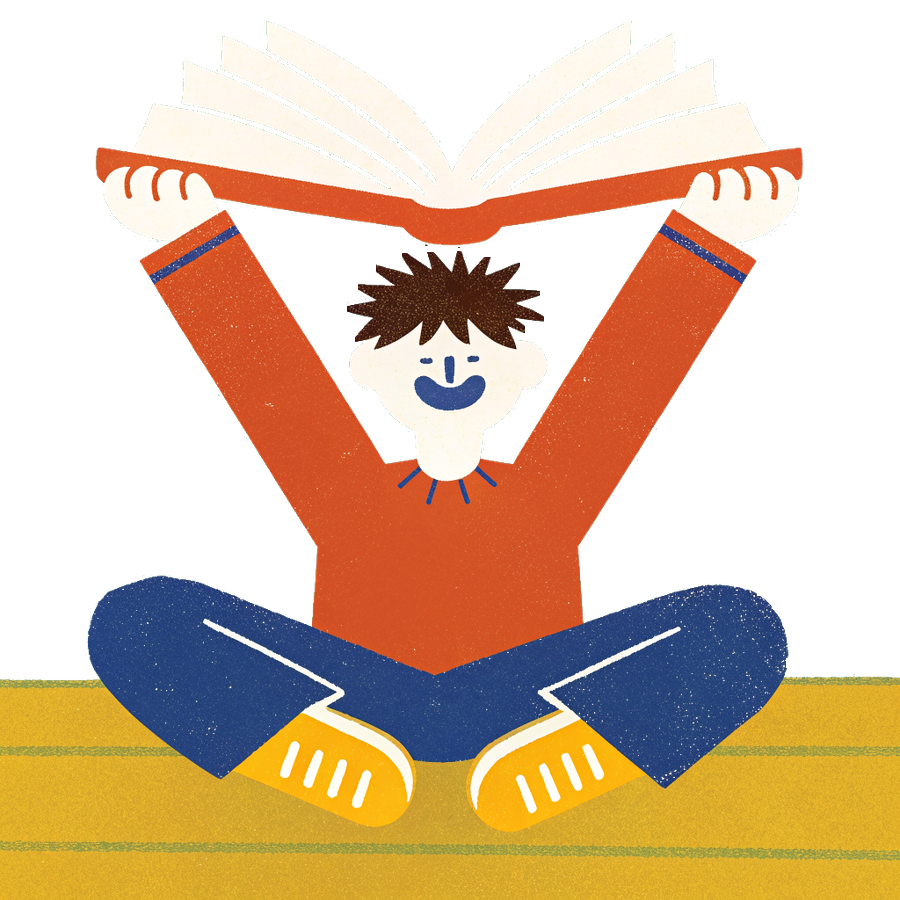
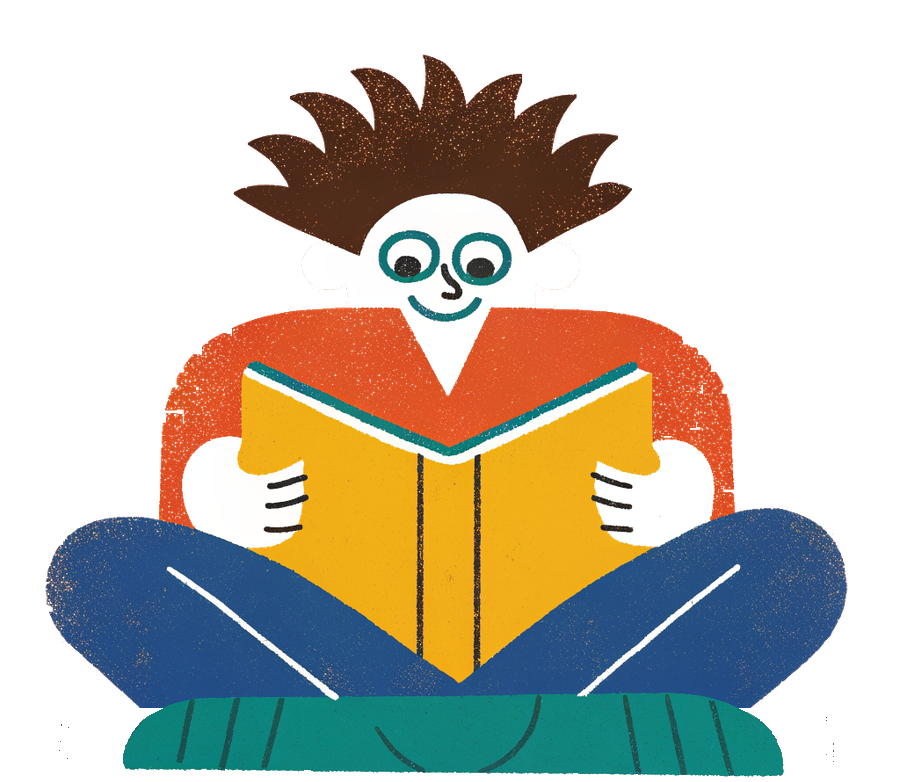
Captures App Store, showcase : l'« apres » lit vraiment, meme sol
Le garcon de droite lit un livre ouvert devant lui ; les deux sont assis
sur le meme sol vert en bas de la page 1.

Claude-Session: https://claude.ai/code/session_01Yb4eBsmKHAU4mkJzSv6usd

diff --git a/appstore/screenshots/src/pano.js b/appstore/screenshots/src/pano.js
@@ -201,9 +201,10 @@ const PANOS = {
       screen: s, cx: mid(i), cy: 232 + (956 * 0.78 + 21) / 2, s: 0.78,
       frame: i === 1 ? "#cdd9f5" : "#2e62c4", band: i === 1 ? "#e9effb" : "#dbe5f8" })),
     people: [
-      // opening panel: logo, bubble, and the before / after boy sitting on the bottom edge
+      // opening panel: logo, bubble, and the before / after boy sitting on the bottom edge, both on
+      // the same green floor (the band in `extras`, the colour of the "before" drawing's own floor)
       { name: "boy_before", x: 112, b: 956, h: 232, z: 1 },
-      { name: "boy_after", x: 324, b: 956, h: 230, z: 1 },
+      { name: "boy_after", x: 322, b: 938, h: 200, z: 1 },
       { name: "trophy", x: P(4) + 220, b: 1000, h: 185 },
       { name: "phone_away", x: P(7) + 372, b: 975, h: 215, flip: true },
       { name: "idea", x: P(8) + 330, b: 990, h: 240, flip: true },
@@ -211,6 +212,7 @@ const PANOS = {
       { name: "waving", x: P(9) + 388, b: 966, h: 205, flip: true },
     ],
     extras: [
+      { x: 0, y: 931.5, z: 0, html: '<div style="width:440px;height:24.5px;background:#1e8e73"></div>' },
       { x: P(4) + 22, y: 96, html: '<svg width="40" height="40" viewBox="0 0 24 22" style="transform:rotate(-12deg)"><path fill="#f4a3c4" d="M12 21C5 16 1 12 1 7.500 1 4 3.700 1.500 7 1.500c2 0 3.800 1 5 2.700 1.200-1.700 3-2.700 5-2.700 3.300 0 6 2.500 6 6 0 4.500-4 8.500-11 13.500Z"/></svg>' },
       { x: P(4) + 372, y: 62, html: '<svg width="54" height="54" viewBox="0 0 24 22" style="transform:rotate(14deg)"><path fill="#f4a3c4" d="M12 21C5 16 1 12 1 7.500 1 4 3.700 1.500 7 1.500c2 0 3.800 1 5 2.700 1.200-1.700 3-2.700 5-2.700 3.300 0 6 2.500 6 6 0 4.500-4 8.500-11 13.500Z"/></svg>' },
       { x: P(4) + 384, y: 880, html: '<svg width="44" height="44" viewBox="0 0 24 22" style="transform:rotate(10deg)"><path fill="#f4a3c4" d="M12 21C5 16 1 12 1 7.500 1 4 3.700 1.500 7 1.500c2 0 3.800 1 5 2.700 1.200-1.700 3-2.700 5-2.700 3.300 0 6 2.500 6 6 0 4.500-4 8.500-11 13.500Z"/></svg>' },

diff --git a/appstore/screenshots/src/pano.html b/appstore/screenshots/src/pano.html
@@ -112,7 +112,7 @@ body.loud .profs { top: 206px; }
     el.innerHTML = html; document.body.appendChild(el);
   });
   (V.extras || []).forEach((x) => {
-    const el = document.createElement("div"); el.className = "extra"; el.style.left = x.x + "px"; el.style.top = x.y + "px"; el.innerHTML = x.html; document.body.appendChild(el);
+    const el = document.createElement("div"); el.className = "extra"; el.style.left = x.x + "px"; el.style.top = x.y + "px"; if (x.z !== undefined) el.style.zIndex = x.z; el.innerHTML = x.html; document.body.appendChild(el);
   });
   // phones: cx, cy = centre on the wide canvas; s = scale; r = rotation in degrees
   V.phones.forEach((p) => {

diff --git a/appstore/screenshots/people.py b/appstore/screenshots/people.py
@@ -57,7 +57,7 @@ SCENE_STYLE = ("Whole figure visible, centred. Flat poster illustration, paper-c
                "background, a thin flat green floor strip along the bottom edge, no text, no outlines, no furniture.")
 SCENES = {
     "boy_before": f"Full-body drawing of {BOY}, sitting slumped on the floor with knees up, back hunched, head down, staring at a smartphone held in both hands, tired half-closed eyes, sad bored expression. " + SCENE_STYLE,
-    "boy_after": f"Full-body drawing of {BOY}, sitting upright cross-legged on the floor, holding a big open saffron book, head up above the book, wide awake, big delighted smile. " + SCENE_STYLE,
+    "boy_after": f"Full-body drawing of {BOY}, sitting upright cross-legged on the floor, reading an open saffron book that rests in his lap, both hands on the book at chest height, arms down, eyes looking down at the pages, absorbed, happy smile. " + SCENE_STYLE,
 }
 SCENE_COLORS = COLORS[:4] + [[92, 58, 38], [38, 150, 140]]
 
